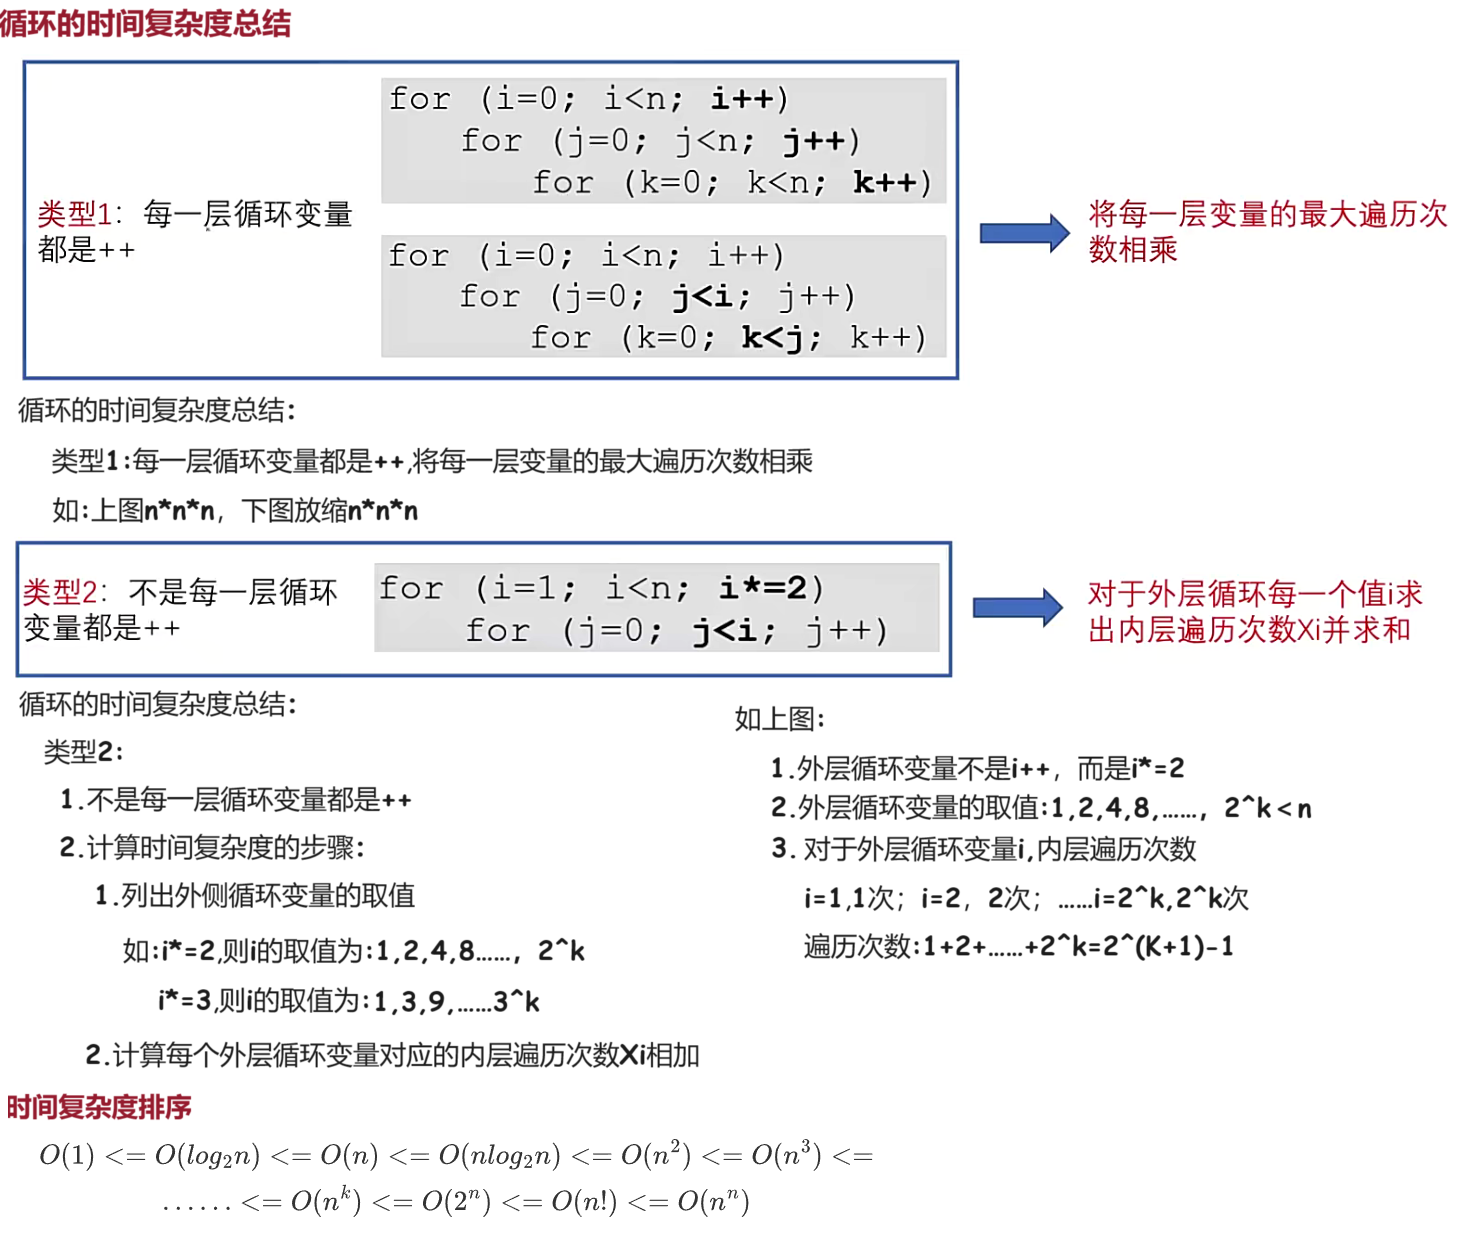
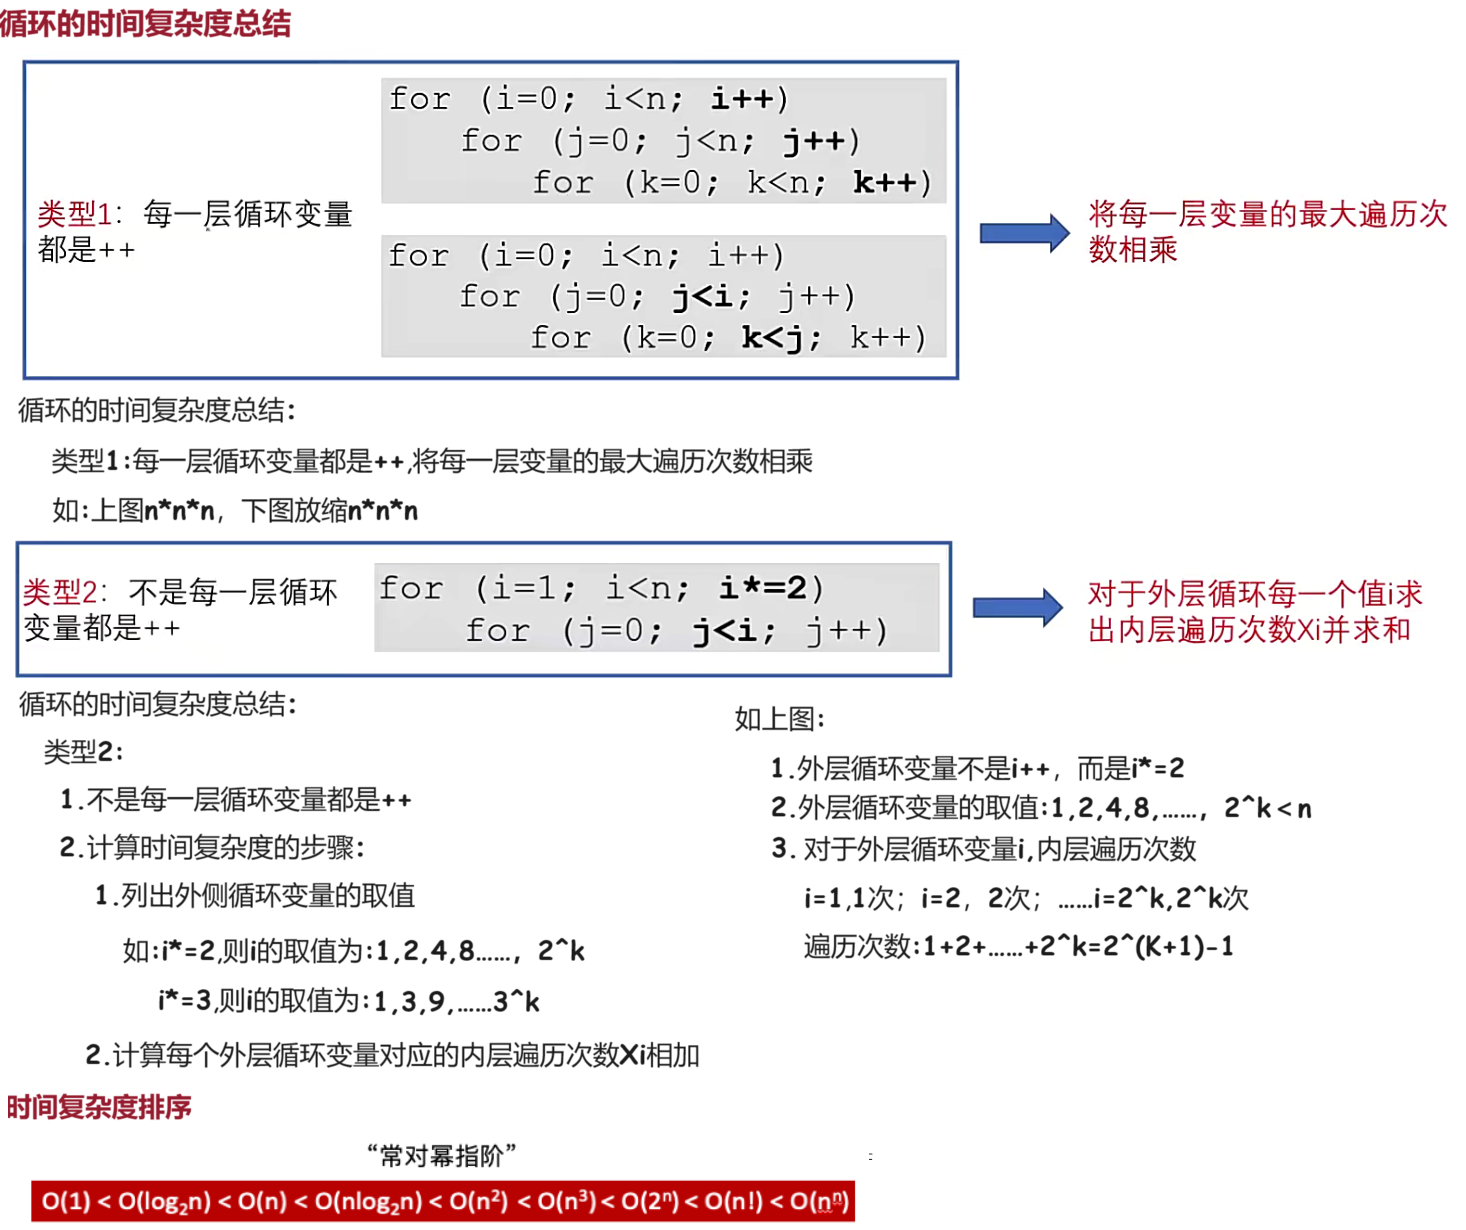
231010

diff --git a/04 每日一题/06 22 数据结构 时间复杂度 231008 D24/01 Note.md b/04 每日一题/06 22 数据结构 时间复杂度 231008 D24/01 Note.md
@@ -4,7 +4,7 @@
 
 # 背诵
 
-<img src="https://cvp.oss-cn-shanghai.aliyuncs.com/picgo/202310101612540.png" alt="image-20231010161207231" style="zoom:、60%;" />
+![image-20231010162057274](C:\Users\51532\AppData\Roaming\Typora\typora-user-images\image-20231010162057274.png)
 
 
 
